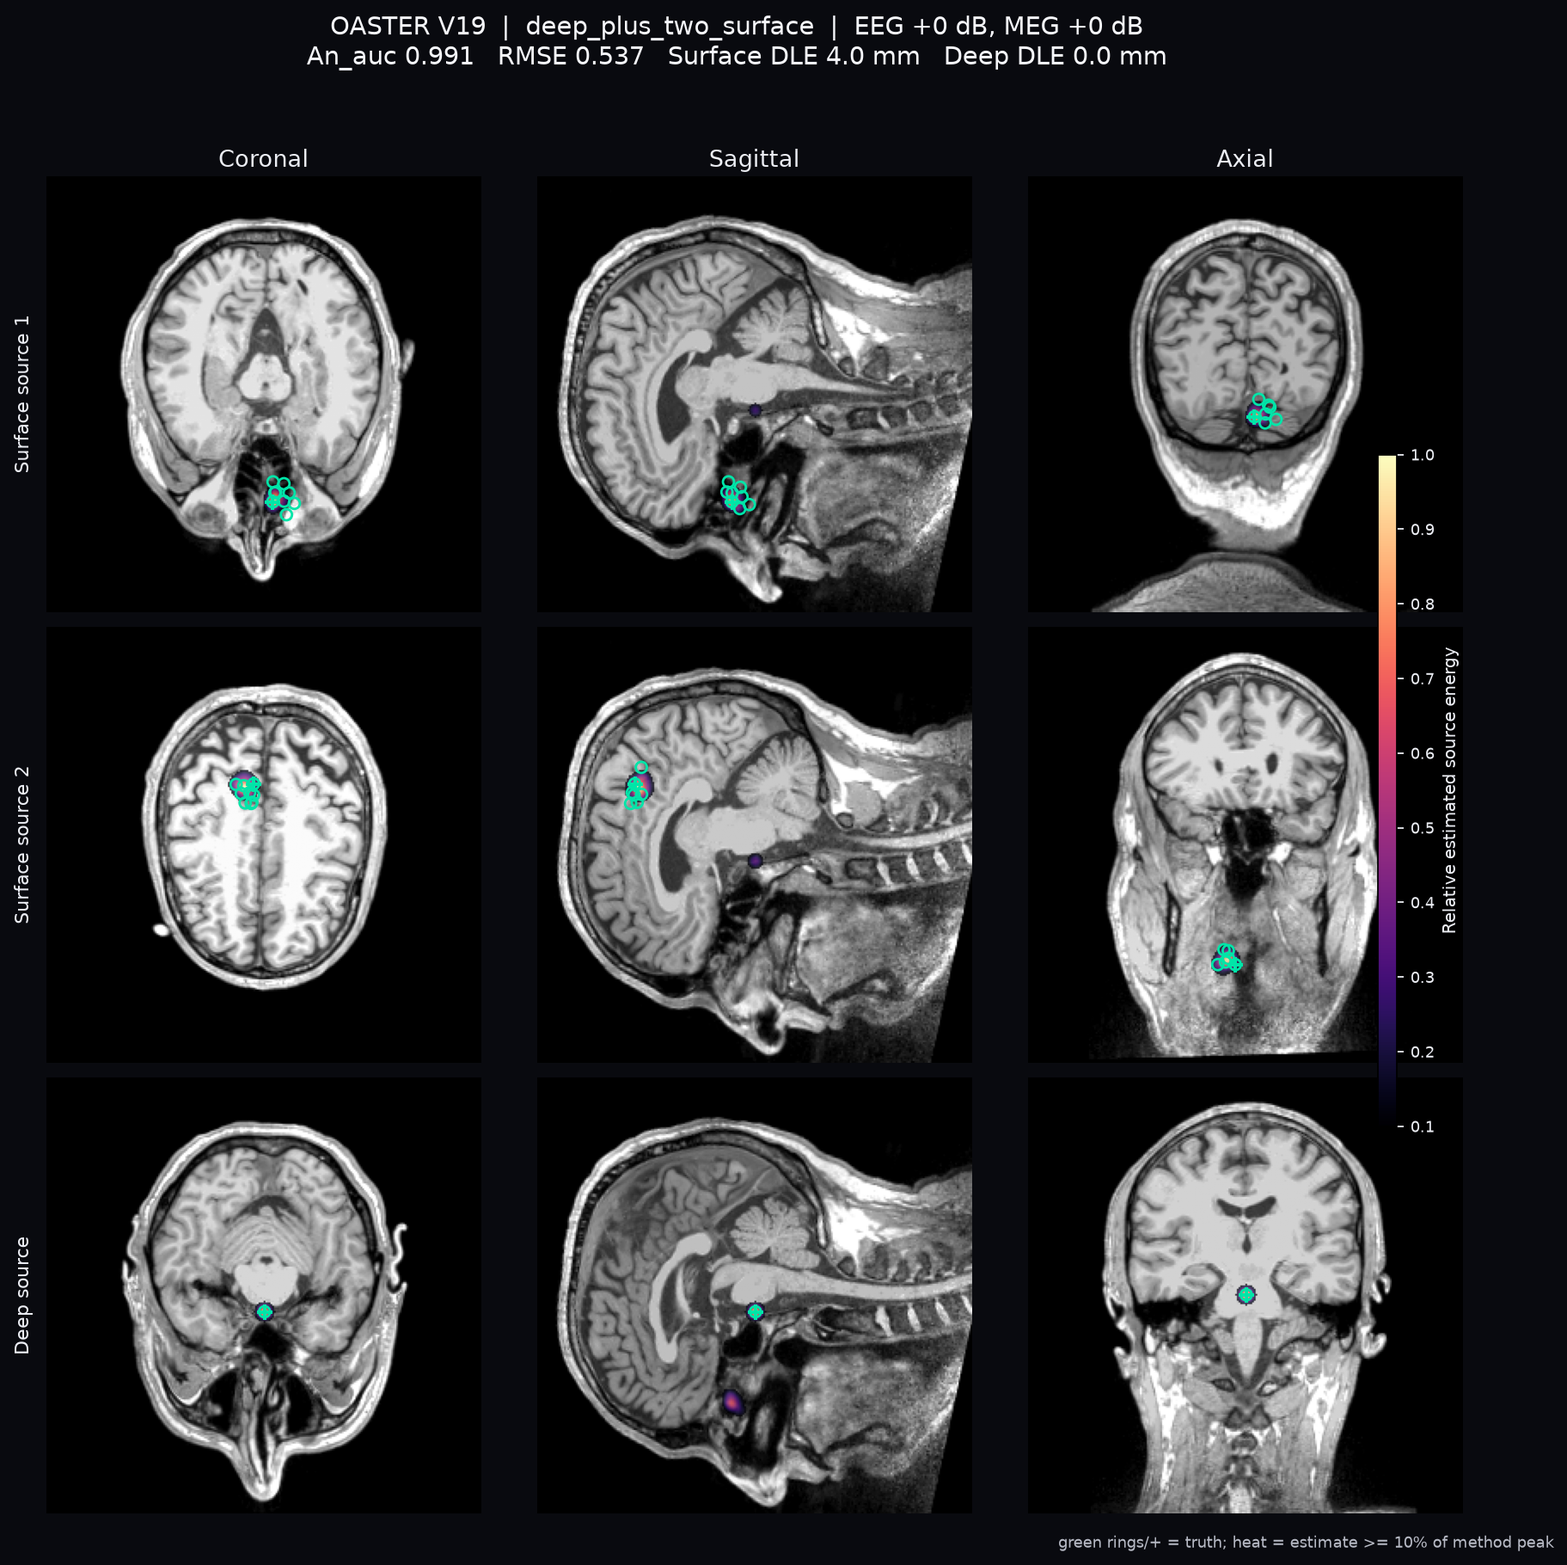
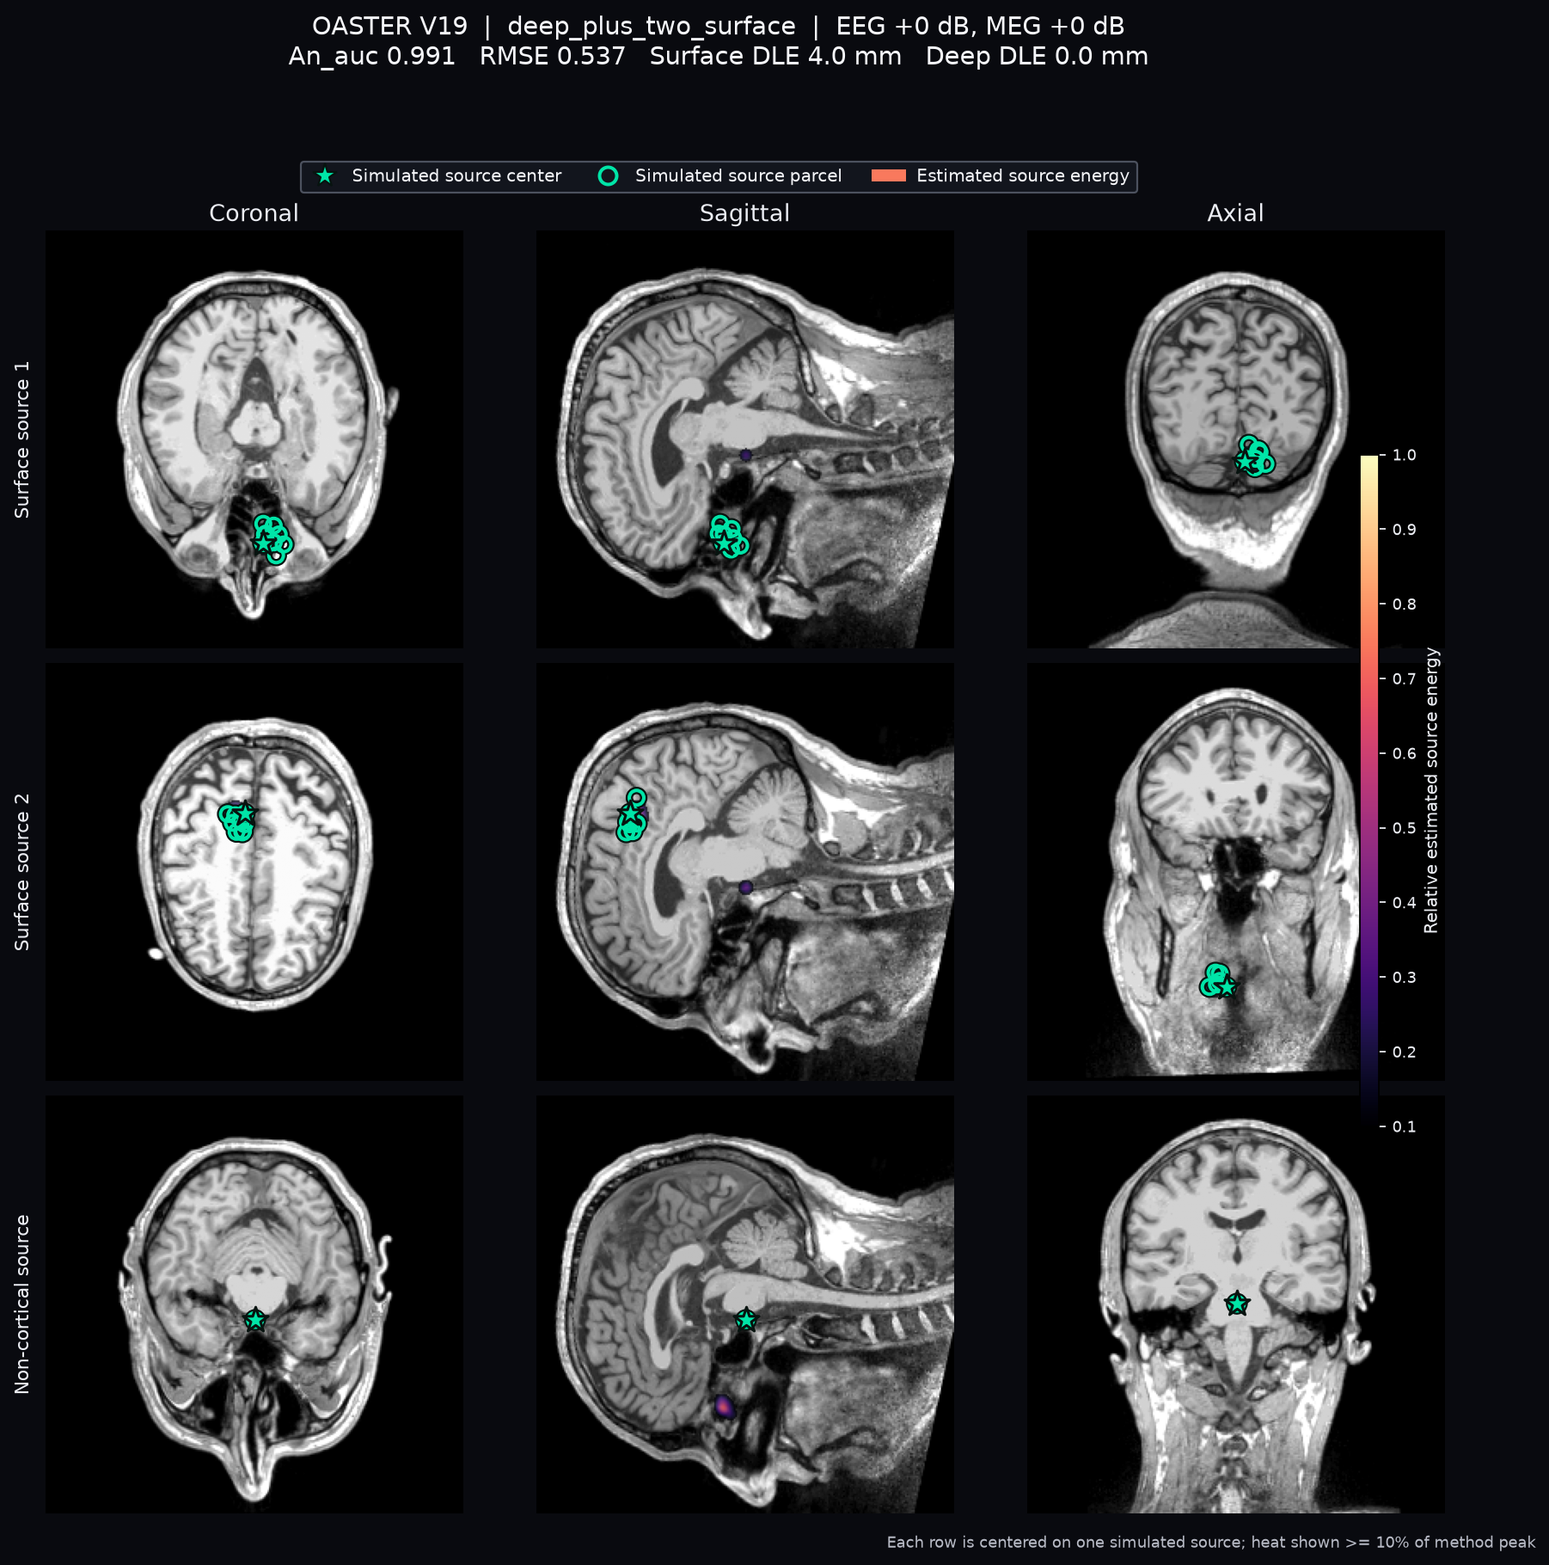
Audit source geometry and clarify truth overlays

diff --git a/plot_strict_brain_maps.py b/plot_strict_brain_maps.py
@@ -20,6 +20,8 @@ matplotlib.use("Agg")
 import matplotlib.pyplot as plt
 from matplotlib.cm import ScalarMappable
 from matplotlib.colors import Normalize
+from matplotlib.lines import Line2D
+from matplotlib.patches import Patch
 import mne
 from mne.transforms import apply_trans
 import nibabel as nib
@@ -55,6 +57,36 @@ METHOD_SLUGS = {
 PLANES = ("coronal", "sagittal", "axial")
 ESTIMATE_CMAP = "magma"
 TRUTH_COLOR = "#00E5A8"
+
+
+def _legend_handles() -> list:
+    return [
+        Line2D(
+            [0],
+            [0],
+            marker="*",
+            linestyle="none",
+            markerfacecolor=TRUTH_COLOR,
+            markeredgecolor="#07130F",
+            markersize=13,
+            label="Simulated source center",
+        ),
+        Line2D(
+            [0],
+            [0],
+            marker="o",
+            linestyle="none",
+            markerfacecolor="none",
+            markeredgecolor=TRUTH_COLOR,
+            markeredgewidth=1.8,
+            markersize=9,
+            label="Simulated source parcel",
+        ),
+        Patch(
+            facecolor=plt.get_cmap(ESTIMATE_CMAP)(0.72),
+            label="Estimated source energy",
+        ),
+    ]
 
 
 def _default_data_root() -> Path:
@@ -202,7 +234,7 @@ def _focuses(loaded: dict) -> list[tuple[str, int]]:
         for number, index in enumerate(case.get("surface_centers", []), start=1)
     ]
     if case.get("deep_index") is not None:
-        focuses.append(("Deep source", int(case["deep_index"])))
+        focuses.append(("Non-cortical source", int(case["deep_index"])))
     if not focuses:
         raise ValueError("strict case has no source focus")
     return focuses
@@ -287,19 +319,31 @@ def _draw_slice(
         ax.scatter(
             points[:, 0],
             points[:, 1],
-            s=34,
+            s=58,
+            facecolors="none",
+            edgecolors="#07130F",
+            linewidths=3.8,
+            zorder=6,
+        )
+        ax.scatter(
+            points[:, 0],
+            points[:, 1],
+            s=58,
             facecolors="none",
             edgecolors=TRUTH_COLOR,
-            linewidths=1.25,
+            linewidths=1.8,
+            zorder=7,
         )
     focus_xy = point_2d(center_voxel)
     ax.scatter(
         [focus_xy[0]],
         [focus_xy[1]],
-        s=70,
-        marker="+",
-        color=TRUTH_COLOR,
-        linewidths=1.8,
+        s=190,
+        marker="*",
+        facecolor=TRUTH_COLOR,
+        edgecolor="#07130F",
+        linewidths=1.4,
+        zorder=8,
     )
     ax.set_axis_off()
 
@@ -378,15 +422,29 @@ def render_method(
     )
     colorbar.set_label("Relative estimated source energy", color="#ECEEF4", fontsize=9)
     colorbar.ax.tick_params(colors="#ECEEF4", labelsize=8)
+    legend = fig.legend(
+        handles=_legend_handles(),
+        loc="upper center",
+        bbox_to_anchor=(0.5, 0.905),
+        ncol=3,
+        frameon=True,
+        fontsize=9,
+        handletextpad=0.6,
+        columnspacing=1.7,
+    )
+    legend.get_frame().set_facecolor("#151821")
+    legend.get_frame().set_edgecolor("#5D6372")
+    for text in legend.get_texts():
+        text.set_color("#F6F7FB")
     fig.text(
         0.995,
         0.008,
-        f"green rings/+ = truth; heat = estimate >= {relative_threshold:.0%} of method peak",
+        f"Each row is centered on one simulated source; heat shown >= {relative_threshold:.0%} of method peak",
         ha="right",
         color="#B8BBC6",
         fontsize=8,
     )
-    fig.subplots_adjust(left=0.055, right=0.94, top=0.89, bottom=0.03, wspace=0.025, hspace=0.035)
+    fig.subplots_adjust(left=0.055, right=0.94, top=0.855, bottom=0.03, wspace=0.025, hspace=0.035)
     output.parent.mkdir(parents=True, exist_ok=True)
     fig.savefig(output, dpi=dpi, facecolor=fig.get_facecolor(), bbox_inches="tight")
     plt.close(fig)
@@ -405,7 +463,17 @@ def render_montage(paths: list[tuple[str, Path]], output: Path, dpi: int) -> Pat
         fontweight="bold",
         y=0.995,
     )
-    fig.subplots_adjust(left=0.005, right=0.995, top=0.965, bottom=0.005, wspace=0.015, hspace=0.04)
+    fig.legend(
+        handles=_legend_handles(),
+        loc="upper center",
+        bbox_to_anchor=(0.5, 0.973),
+        ncol=3,
+        frameon=True,
+        fontsize=11,
+        handletextpad=0.7,
+        columnspacing=2.4,
+    )
+    fig.subplots_adjust(left=0.005, right=0.995, top=0.94, bottom=0.005, wspace=0.015, hspace=0.04)
     fig.savefig(output, dpi=dpi, facecolor="white", bbox_inches="tight")
     plt.close(fig)
     return output
@@ -475,11 +543,12 @@ def plot_brain_maps(
                 "methods": list(METHOD_ORDER),
                 "normalization": "per-method active-minus-baseline RMS, normalized to global peak",
                 "display_threshold": relative_threshold,
-                "truth_overlay": "green rings and focus plus signs",
+                "truth_overlay": "green parcel rings and green star at each simulated source center",
                 "anatomy": anatomy["sample_path"],
                 "observations": "immutable archived F_EEG/F_MEG; never regenerated",
                 "sisses_archive_access": "read-only; output root is explicitly rejected inside archive",
                 "case_metrics": "recomputed uniformly with the current benchmark.metrics scorer; primary AUC is auc_tie_corrected (An_auc)",
+                "deep_grid_warning": "the frozen 15-point grid was intended as thalamus but a legacy HEAD-to-MRI selection error places it near brain stem/cerebellum/fourth ventricle; see SOURCE_SPACE_AUDIT.md",
                 "legacy_auc_note": "the preserved SISSES table used an older parcel-AUC aggregation for multi-source cases; do not substitute that historical auc column for the common-scoring value here",
                 **provenance,
             },

diff --git a/pipelines/generate_datasets.py b/pipelines/generate_datasets.py
@@ -40,6 +40,14 @@ rng = np.random.RandomState(20260623)
 roi_name = "bilateral_thalamus"
 roi_label_ids = np.array([10, 49], dtype=np.int64)  # Left/Right-Thalamus-Proper
 
+# KNOWN ISSUE: the frozen generator queried aseg with HEAD-frame source_rr as if it
+# were MRI RAS, so its 15 saved points are not thalamic. Preserve only to reproduce
+# the historical data; use a new corrected protocol with HEAD->MRI before ROI lookup.
+warnings.warn(
+    "Legacy generator has a known HEAD/MRI ROI-selection error; see SOURCE_SPACE_AUDIT.md",
+    RuntimeWarning,
+)
+
 # 体积源空间分辨率。10 mm 下 sample 里丘脑候选点大约 16 个。
 deep_pos_mm = 10.0
 deep_neighbor_k = 4

diff --git a/benchmark/protocol.py b/benchmark/protocol.py
@@ -1,4 +1,4 @@
-"""Frozen, deterministic simulation protocol for the full-head benchmark."""
+"""Frozen deterministic protocol for the full-cortex plus non-cortical benchmark."""
 
 from __future__ import annotations
 
@@ -246,7 +246,7 @@ def build_split(shared: dict) -> dict:
     deep_dev = [0, 3, 6, 9, 12]
     n_deep = int(shared["n_deep"])
     if n_deep != 15:
-        raise ValueError("the frozen coarse thalamic grid must contain 15 points")
+        raise ValueError("the frozen coarse non-cortical grid must contain 15 points")
     deep_test = [index for index in range(n_deep) if index not in deep_dev]
     return {
         "protocol": "full-head-coarse-v1",

diff --git a/tests/test_plot_strict_brain_maps.py b/tests/test_plot_strict_brain_maps.py
@@ -99,6 +99,11 @@ def test_method_brain_map_renders_truth_and_estimate(tmp_path: Path) -> None:
     )
 
     assert len(brain_maps.METHOD_ORDER) == 9
+    assert [handle.get_label() for handle in brain_maps._legend_handles()] == [
+        "Simulated source center",
+        "Simulated source parcel",
+        "Estimated source energy",
+    ]
     assert output.is_file() and output.stat().st_size > 10_000
 
 

diff --git a/generate_strict_blind_manifest.py b/generate_strict_blind_manifest.py
@@ -83,7 +83,7 @@ def _base_configurations(shared: dict) -> list[dict]:
     n_surf = int(shared["n_surf"])
     n_deep = int(shared["n_deep"])
     if n_deep != 15:
-        raise ValueError("strict blind protocol expects the frozen 15-point deep grid")
+        raise ValueError("strict blind protocol expects the frozen 15-point non-cortical grid")
 
     base = []
     for location, row in enumerate(records):

diff --git a/SOURCE_SPACE_AUDIT.md b/SOURCE_SPACE_AUDIT.md
@@ -1,0 +1,55 @@
+# 严格盲测场景与源空间审计
+
+## 仿真矩阵
+
+严格盲测包含 185 个唯一空间配置。EEG 与 MEG 分别取 `-10、-5、0、5、10、15、20 dB`，完整笛卡尔积为 49 个有序 SNR 组合；每个空间配置在每个 SNR 组合下运行一次。
+
+| 场景 | 每个 SNR 组合的配置数 | 49 个 SNR 组合后的病例数 |
+|---|---:|---:|
+| 纯表层：1 个表层 patch | 68 | 3,332 |
+| 纯非皮层：1 个体积网格点 | 15 | 735 |
+| 1 个表层 patch + 1 个非皮层点 | 68 | 3,332 |
+| 2 个表层 patch + 1 个非皮层点 | 34 | 1,666 |
+| 合计 | 185 | 9,065 |
+
+因此四种场景都完成了全部 49 种 EEG×MEG SNR 组合，包括两模态 SNR 不相等的组合。冻结运行记录为 `9,065/9,065`、`0 errors`。
+
+## 表层源覆盖
+
+- 反演候选网格含 7,498 个皮层点，左半球 3,732 个、右半球 3,766 个。
+- 严格矩阵在 Desikan–Killiany `aparc` 的全部 68 个双侧 parcel 中各选一个此前未用于开发/确认集的 maximin 中心，即左右半球各 34 个中心。
+- 每个表层真值不是单点，而是中心周围两跳网格邻域、`σ=10 mm` 的高斯 patch。
+- 68 个 patch 各含 5–19 个顶点，平均 16.85 个；并集为 1,089 个顶点，占 7,498 点候选皮层网格的 14.52%。
+- 双表层场景将 34 个左侧中心与 34 个右侧中心远距离一一配对，68 个中心各使用一次。
+
+准确说法是“左右半球全皮层分区覆盖”，不是“穷举每个皮层顶点”。
+
+## 15 个非皮层点的坐标问题
+
+生成脚本原计划按 FreeSurfer `aseg` 标签 10/49 选择左右丘脑，但 `fwd_vol_meg["source_rr"]` 是 HEAD 坐标，旧代码直接把它当作 MRI RAS 坐标查询 `aseg`，漏掉了 HEAD→MRI 变换。错误坐标查询会返回“丘脑”，但对同一批冻结点先执行正确 HEAD→MRI 变换后，丘脑点为 0。
+
+| local / global | MRI RAS（mm） | 实际 `aseg` 区域 |
+|---|---|---|
+| 0 / 7498 | (−20, −20, −20) | Left-Cerebellum-White-Matter |
+| 1 / 7499 | (−10, −20, −20) | 4th-Ventricle |
+| 2 / 7500 | (20, −20, −20) | Right-Cerebellum-Cortex |
+| 3 / 7501 | (20, −30, −10) | Right-Cerebellum-White-Matter |
+| 4 / 7502 | (−10, −20, −10) | Left-Cerebellum-White-Matter |
+| 5 / 7503 | (0, −20, −10) | 4th-Ventricle |
+| 6 / 7504 | (10, −20, −10) | Brain-Stem |
+| 7 / 7505 | (20, −20, −10) | Right-Cerebellum-White-Matter |
+| 8 / 7506 | (−10, −20, 0) | Brain-Stem |
+| 9 / 7507 | (0, −20, 0) | 4th-Ventricle |
+| 10 / 7508 | (10, −20, 0) | Unknown |
+| 11 / 7509 | (20, −20, 0) | Right-Cerebellum-Cortex |
+| 12 / 7510 | (−10, −10, 0) | Brain-Stem |
+| 13 / 7511 | (0, −10, 0) | Brain-Stem |
+| 14 / 7512 | (10, −10, 0) | Brain-Stem |
+
+汇总：脑干 5、第四脑室 3、左小脑白质 2、右小脑白质 2、右小脑皮层 2、Unknown 1、丘脑 0。当前“deep”指标只能解释为这 15 个冻结非皮层点上的结果，不能解释为丘脑定位性能，也不能把该源空间称作全脑体积覆盖。
+
+## 修复边界
+
+根因修复是在 ROI 查询前将 `source_rr` 从 HEAD 转到 MRI，按 `aseg` 选择左右丘脑后，再用被选点对应的 HEAD 坐标和 forward 列进行仿真。这样会改变深部候选、前向矩阵、真值、观测和冻结清单，因此必须建立新的 corrected-v2 数据与结果目录，并重新运行 SISSES、OASTER 和所有对比方法；旧结果只能作为冻结历史保留，不能直接改标签冒充修复。
+
[1 lines of base64/hex data omitted]

diff --git a/README.md b/README.md
@@ -2,6 +2,8 @@
 
 本目录恢复了 PPT 对应的 V18 多层 SISSES 后处理、原始仿真、用户指标、经典对比方法和冻结留出 EEG×MEG 信噪比协议（目录名保留为 `strict_blind`）。冻结候选 OASTER V19（Observation-Adaptive Spatiotemporal Evidence Reconstruction）及七种对比方法的 9,065 例留出矩阵均已完整运行并通过复核。
 
+> **源空间审计更正：** 皮层源覆盖双侧 68 个 `aparc` 分区；原计划的 15 个“丘脑点”因旧生成脚本遗漏 HEAD→MRI 变换，实际位于脑干、小脑和第四脑室附近，丘脑点为 0。现有 deep 指标不能解释为丘脑性能，详见 `SOURCE_SPACE_AUDIT.md`。
+
 ## 已确认的恢复边界
 
 - V4–V18 来自 Git 仓库历史；除 PPT 中 AUC `0.909` 与仓库精确值 `0.900910` 不一致外，PPT 最终表格的其余数值与 V18 结果吻合。V18 流程为：模态内基线白化、联合候选、深层残差救援、0/4/7 mm 表层模板重拟合，以及 25% 弱表层范围校正。
@@ -26,6 +28,7 @@
 - `plot_strict_brain_maps.py`：在同一 MNE sample T1 空间绘制九方法的逐方法和总览源定位图。
 - `FINAL_RESULTS.md`：恢复证据、开发实验、严格矩阵、复现命令和解释边界的总报告。
 - `VISUAL_STATISTICAL_REPORT.md`：新增指标图、统计结论、比较表和脑空间投影的集中索引。
+- `SOURCE_SPACE_AUDIT.md`：四类场景、完整 SNR 矩阵、表层覆盖及非皮层坐标问题的审计。
 
 历史 V15–V18 入口仍依赖当时 `benchmark/results/scores.csv` 所索引的逐例 SISSES 源估计；这些输入没有保存在 Git 历史或现存严格盲测归档中。因此仓库可以核对已提交的历史汇总、审查并在输入补齐后运行后处理链，但目前不能从零重跑 V15–V18。无需历史 SISSES 输入的 OASTER、七种 Python 对比方法、严格矩阵与绘图入口均可直接运行。
 

diff --git a/results/strict_blind/brain_maps_v2/README.md b/results/strict_blind/brain_maps_v2/README.md
@@ -3,9 +3,11 @@
 - `case_03124/`：主展示病例，`deep_plus_two_surface`，EEG/MEG 均为 0 dB；包含总览图、九张方法独立图、逐方法指标和可追溯元数据。
 - `case_00092/`：低信噪比压力病例，`deep_plus_surface`，EEG/MEG 均为 -10 dB，文件结构相同。
 
-每张图在同一 MNE sample T1 解剖空间、同一真值切片上显示。绿色空心圆和加号是真值，magma 热图是该方法相对峰值不低于 10% 的估计能量。每种方法单独归一化，适合判断位置和空间扩散，不表示方法之间的绝对振幅大小。
+每张图在同一 MNE sample T1 解剖空间、同一真值切片上显示。荧光绿色星形是仿真源精确中心，绿色空心圆是仿真源区域，magma 热图是该方法相对峰值不低于 10% 的估计能量。每种方法单独归一化，适合判断位置和空间扩散，不表示方法之间的绝对振幅大小。
 
 SISSES 图来自归档中保存的 `source_estimates`；脚本只读该文件，并拒绝把输出目录设到 SISSES 归档内。OASTER 与七种 Python 对比方法从相同冻结 EEG/MEG 观测现场重算。
+
+源空间审计确认：原计划的 15 个丘脑点因生成脚本遗漏 HEAD→MRI 变换，实际位于脑干、小脑和第四脑室附近。图中的非皮层星形标出冻结数据的实际位置，不应解释为丘脑；详见仓库根目录 `SOURCE_SPACE_AUDIT.md`。
 
 ```powershell
 python plot_strict_brain_maps.py --case-number 3124 `

diff --git a/VISUAL_STATISTICAL_REPORT.md b/VISUAL_STATISTICAL_REPORT.md
@@ -2,6 +2,8 @@
 
 本报告基于已完成并冻结的严格盲测：49 个 EEG×MEG SNR 组合、每个组合四类场景宏平均，共 9,065 个病例。比较方法为 OASTER V19、SISSES、MNE、dSPM、sLORETA、eLORETA、LCMV、网格偶极子拟合和 RAP-MUSIC。
 
+> **源空间限制：** 本轮审计发现旧生成脚本遗漏 HEAD→MRI 变换，原计划的 15 个丘脑点实际位于脑干、小脑和第四脑室附近。以下 deep 指标只描述这批冻结非皮层点，不代表丘脑性能；详见 `SOURCE_SPACE_AUDIT.md`。
+
 ## 主要结论
 
 - OASTER 的 SNR 网格宏平均 `An_auc` 为 `0.968997 ± 0.007519`，最差 SNR 组合为 `0.955137`；49/49 个组合均达到 0.90。
@@ -56,7 +58,7 @@
 
 ## 脑空间源定位结果
 
-绿色空心圆与加号是真值，magma 热图是估计源能量。每个方法按自身峰值归一化并仅显示不低于峰值 10% 的区域，所以这些图适合比较位置、扩散和伪源，不用于比较方法间绝对振幅。
+荧光绿色星形是仿真源精确中心，绿色空心圆是仿真源区域，magma 热图是估计源能量。每个方法按自身峰值归一化并仅显示不低于峰值 10% 的区域，所以这些图适合比较位置、扩散和伪源，不用于比较方法间绝对振幅。
 
 ### 主展示病例：0/0 dB，两个表层源 + 一个深层源
 

diff --git a/FINAL_RESULTS.md b/FINAL_RESULTS.md
@@ -4,6 +4,8 @@
 
 本仓库已恢复可审查的 PPT/V18 后处理链、原始仿真协议、用户指标、七种统一 Python 对比方法、EEG×MEG 独立信噪比开发矩阵、冻结留出矩阵入口和源定位绘图工具。当前冻结候选是 **OASTER V19**（Observation-Adaptive Spatiotemporal Evidence Reconstruction）。它只接收 EEG/MEG 观测、前向矩阵和源空间几何，不接收真实源、SNR 标签、真实源数量或仿真时间过程。
 
+> **解剖学更正：** 旧生成脚本在 `aseg` ROI 查询前漏做 HEAD→MRI 变换。冻结的 15 个所谓“丘脑点”实际为脑干/小脑/第四脑室附近的非皮层点，丘脑点为 0；所以本报告的 deep 结果只适用于该冻结非皮层网格。详见 `SOURCE_SPACE_AUDIT.md`。
+
 开发矩阵共有 980 例：7 个 EEG SNR × 7 个 MEG SNR × 4 个场景 × 每场景 5 个固定源配置。以用户优先指定的直接 `An_auc` 为主指标，即结果列 `auc_tie_corrected`：
 
 - 49/49 个 SNR 组合的场景宏平均均不低于 0.90，平均 `0.974974`，最差 `0.956545`。

diff --git a/V16_RESULTS.md b/V16_RESULTS.md
@@ -1,5 +1,7 @@
 # V16 frozen benchmark
 
+> Anatomical correction: the frozen 15-point grid was intended to be thalamic, but a missing HEAD-to-MRI transform placed it near the brain stem, cerebellum and fourth ventricle. Historical “thalamic” wording below is not anatomically valid; see `SOURCE_SPACE_AUDIT.md`.
+
 ## What a deep miss means
 
 The frozen benchmark separates three failure modes for a case that contains a true thalamic source:

diff --git a/V15_RESULTS.md b/V15_RESULTS.md
@@ -1,5 +1,7 @@
 # V15 frozen benchmark
 
+> Anatomical correction: the frozen 15-point grid was intended to be thalamic, but a missing HEAD-to-MRI transform placed it near the brain stem, cerebellum and fourth ventricle. Historical “thalamic” wording below is not anatomically valid; see `SOURCE_SPACE_AUDIT.md`.
+
 ## Method
 
 `V15-support-rescue` makes two scoped changes to V14:
